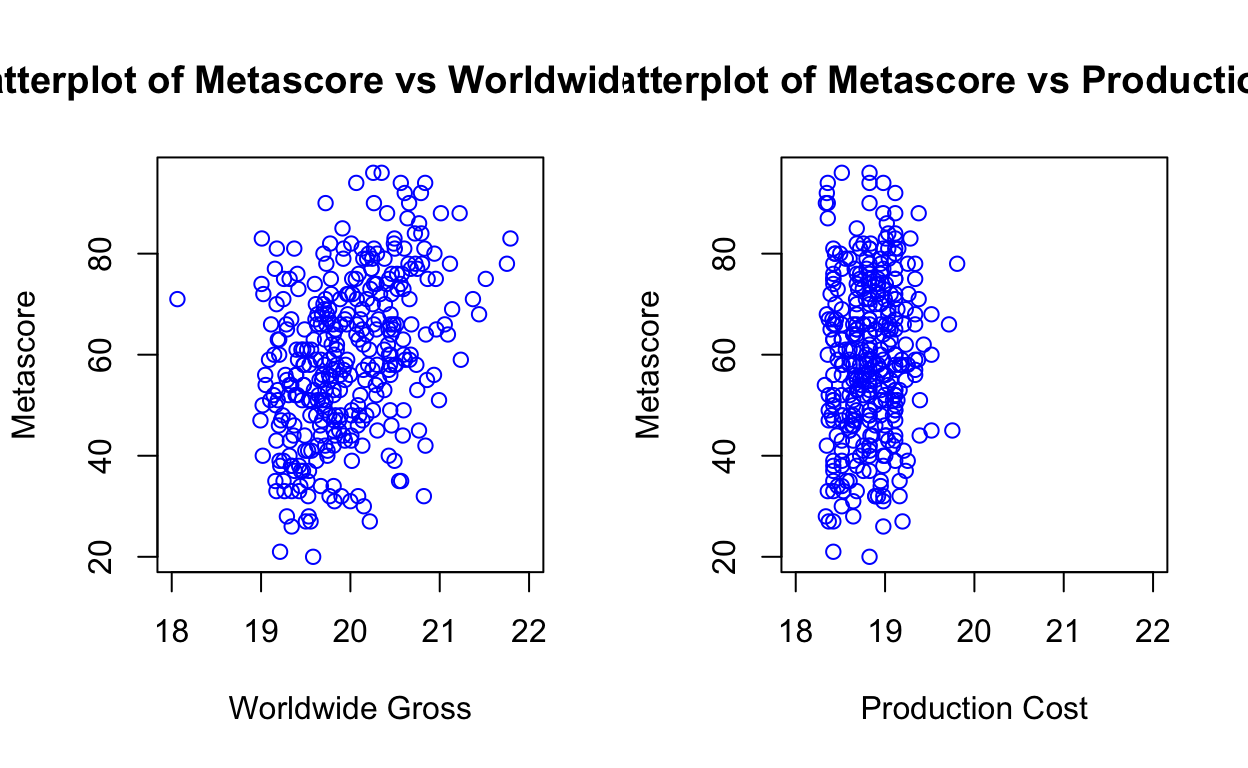
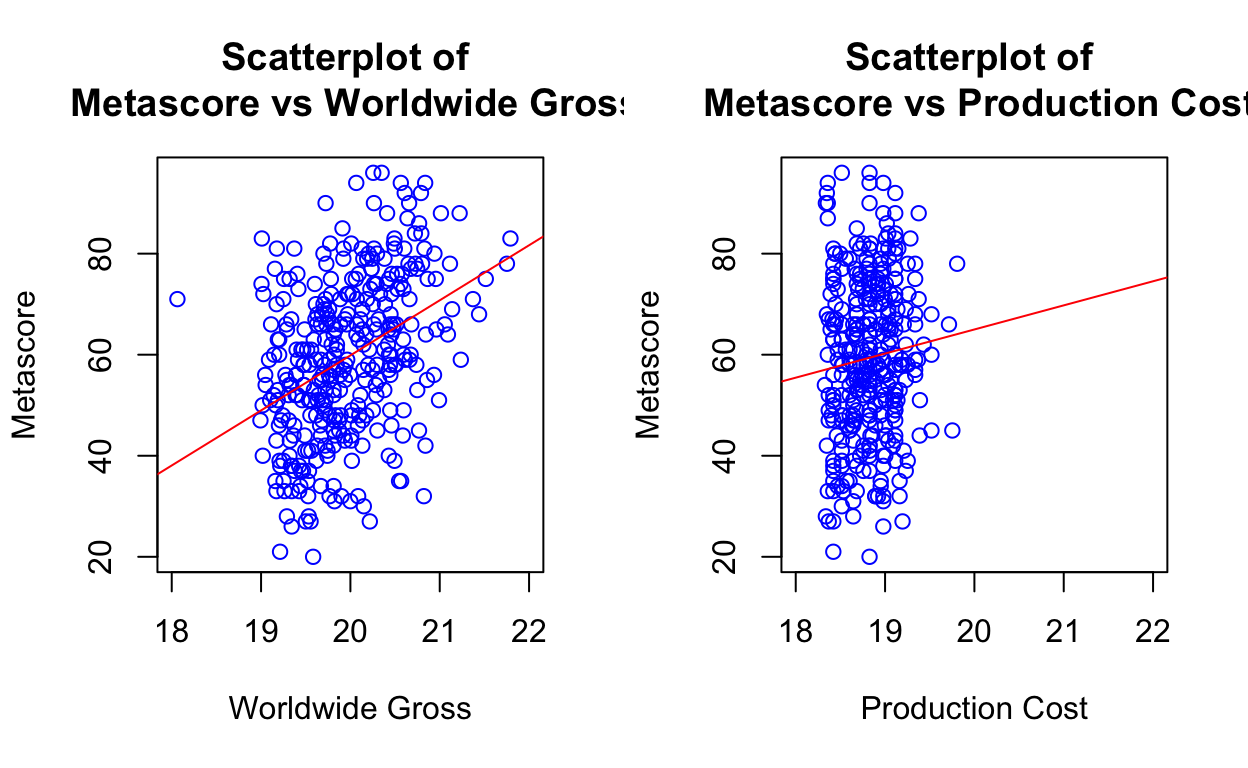
commi

diff --git a/gov50final.html b/gov50final.html
@@ -1794,11 +1794,13 @@ RMSE
 <pre class="sourceCode r"><code class="sourceCode r"><span><span class='fu'><a href='https://rdrr.io/r/graphics/par.html'>par</a></span><span class='op'>(</span>mfrow <span class='op'>=</span> <span class='fu'><a href='https://rdrr.io/r/base/c.html'>c</a></span><span class='op'>(</span><span class='fl'>1</span>, <span class='fl'>2</span><span class='op'>)</span><span class='op'>)</span></span>
 <span></span>
 <span><span class='fu'><a href='https://rdrr.io/r/graphics/plot.default.html'>plot</a></span><span class='op'>(</span><span class='fu'><a href='https://rdrr.io/r/base/Log.html'>log</a></span><span class='op'>(</span><span class='va'>gov50movies</span><span class='op'>$</span><span class='va'>worldwide_gross</span><span class='op'>)</span>, <span class='va'>gov50movies</span><span class='op'>$</span><span class='va'>Metascore</span>, </span>
-<span>     main <span class='op'>=</span> <span class='st'>"Scatterplot of Metascore vs Worldwide Gross"</span>, </span>
+<span>     main <span class='op'>=</span> <span class='st'>"Scatterplot of \n Metascore vs Worldwide Gross"</span>, </span>
 <span>     xlab <span class='op'>=</span> <span class='st'>"Worldwide Gross"</span>,</span>
 <span>     ylab <span class='op'>=</span> <span class='st'>"Metascore"</span>,</span>
 <span>     xlim <span class='op'>=</span> <span class='fu'><a href='https://rdrr.io/r/base/c.html'>c</a></span><span class='op'>(</span><span class='fl'>18</span>, <span class='fl'>22</span><span class='op'>)</span>,</span>
 <span>     col <span class='op'>=</span> <span class='st'>"blue"</span><span class='op'>)</span></span>
+<span></span>
+<span><span class='fu'><a href='https://rdrr.io/r/graphics/abline.html'>abline</a></span><span class='op'>(</span><span class='fu'><a href='https://rdrr.io/r/stats/lm.html'>lm</a></span><span class='op'>(</span><span class='va'>gov50movies</span><span class='op'>$</span><span class='va'>Metascore</span> <span class='op'>~</span> <span class='fu'><a href='https://rdrr.io/r/base/Log.html'>log</a></span><span class='op'>(</span><span class='va'>gov50movies</span><span class='op'>$</span><span class='va'>worldwide_gross</span><span class='op'>)</span><span class='op'>)</span>, col <span class='op'>=</span> <span class='st'>"red"</span><span class='op'>)</span></span>
 <span></span>
 <span><span class='va'>mean_worldwide_gross</span> <span class='op'>&lt;-</span> <span class='fu'><a href='https://rdrr.io/r/base/mean.html'>mean</a></span><span class='op'>(</span><span class='va'>gov50movies</span><span class='op'>$</span><span class='va'>worldwide_gross</span><span class='op'>)</span></span>
 <span><span class='va'>sd_worldwide_gross</span> <span class='op'>&lt;-</span> <span class='fu'><a href='https://rdrr.io/r/stats/sd.html'>sd</a></span><span class='op'>(</span><span class='va'>gov50movies</span><span class='op'>$</span><span class='va'>worldwide_gross</span><span class='op'>)</span></span>
@@ -1813,11 +1815,13 @@ RMSE
 <span><span class='fu'><a href='https://rdrr.io/r/graphics/lines.html'>lines</a></span><span class='op'>(</span><span class='va'>x_values</span>, <span class='va'>y_values</span>, col <span class='op'>=</span> <span class='st'>"red"</span>, lty <span class='op'>=</span> <span class='fl'>2</span><span class='op'>)</span></span>
 <span></span>
 <span><span class='fu'><a href='https://rdrr.io/r/graphics/plot.default.html'>plot</a></span><span class='op'>(</span><span class='fu'><a href='https://rdrr.io/r/base/Log.html'>log</a></span><span class='op'>(</span><span class='va'>gov50movies</span><span class='op'>$</span><span class='va'>production_cost</span><span class='op'>)</span>, <span class='va'>gov50movies</span><span class='op'>$</span><span class='va'>Metascore</span>, </span>
-<span>     main <span class='op'>=</span> <span class='st'>"Scatterplot of Metascore vs Production Cost"</span>, </span>
+<span>     main <span class='op'>=</span> <span class='st'>"Scatterplot of \n Metascore vs Production Cost"</span>, </span>
 <span>     xlab <span class='op'>=</span> <span class='st'>"Production Cost"</span>,</span>
 <span>     ylab <span class='op'>=</span> <span class='st'>"Metascore"</span>,</span>
 <span>     xlim <span class='op'>=</span> <span class='fu'><a href='https://rdrr.io/r/base/c.html'>c</a></span><span class='op'>(</span><span class='fl'>18</span>, <span class='fl'>22</span><span class='op'>)</span>,</span>
-<span>     col <span class='op'>=</span> <span class='st'>"blue"</span><span class='op'>)</span></span></code></pre>
+<span>     col <span class='op'>=</span> <span class='st'>"blue"</span><span class='op'>)</span></span>
+<span></span>
+<span><span class='fu'><a href='https://rdrr.io/r/graphics/abline.html'>abline</a></span><span class='op'>(</span><span class='fu'><a href='https://rdrr.io/r/stats/lm.html'>lm</a></span><span class='op'>(</span><span class='va'>gov50movies</span><span class='op'>$</span><span class='va'>Metascore</span> <span class='op'>~</span> <span class='fu'><a href='https://rdrr.io/r/base/Log.html'>log</a></span><span class='op'>(</span><span class='va'>gov50movies</span><span class='op'>$</span><span class='va'>production_cost</span><span class='op'>)</span><span class='op'>)</span>, col <span class='op'>=</span> <span class='st'>"red"</span><span class='op'>)</span></span></code></pre>
 </div>
 <p><img src="gov50final_files/figure-html5/scatterplot-meta-worldwide-production-1.png" width="624" /></p>
 </div>
